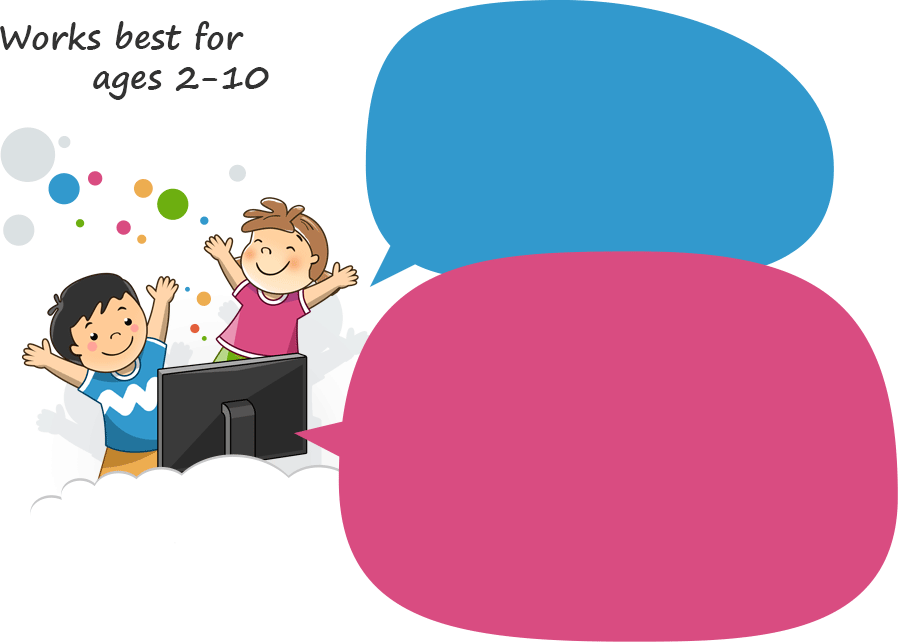
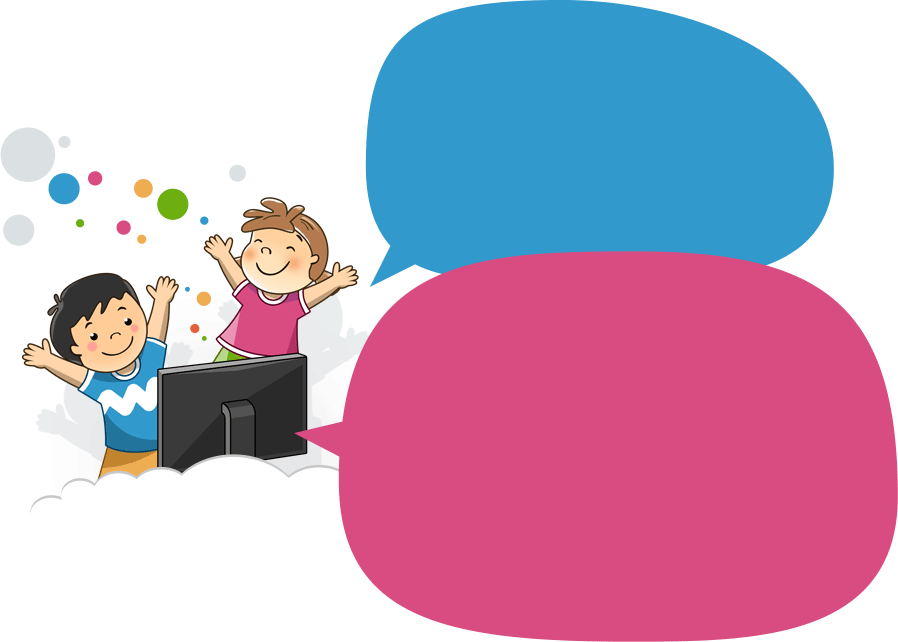
carousel added

Changed region(s): [[0.0, 0.0312, 0.3118, 0.1558]]

diff --git a/desktop.bundles/landing/landing.bemjson.js b/desktop.bundles/landing/landing.bemjson.js
@@ -42,6 +42,20 @@
                                                     url: '../../i/landing-image.png'
                                                 },
                                                 {
+                                                    elem: 'caption',
+                                                    mix: [{ block: 'block' }],
+                                                    content: [
+                                                        {
+                                                            elem: 'cation-line',
+                                                            mix: [{ block: 'block', elem: 'h1' }],
+                                                            content: [
+                                                                'Works best for<br>',
+                                                                '&nbsp;&nbsp;&nbsp;&nbsp;&nbsp;&nbsp;&nbsp;&nbsp;&nbsp;&nbsp;&nbsp;ages 2-10'
+                                                            ]
+                                                        }
+                                                    ]
+                                                },
+                                                {
                                                     elem: 'text',
                                                     content: [
                                                         {
@@ -122,7 +136,15 @@
                                                             ]
                                                         }
                                                     ]
-                                                }
+                                                },
+                                                {
+                                                    block: 'block',
+                                                    mix: { block: 'landing-image', elem: 'screenshots-title' },
+                                                    content: {
+                                                        elem: 'h1',
+                                                        content: 'Screenshots'
+                                                    }
+                                                },
                                             ]
                                         }
                                     ]
@@ -149,13 +171,6 @@
                     ]
                 },
                 {
-                    block: 'block',
-                    content: {
-                        elem: 'h1',
-                        content: 'Screenshots'
-                    }
-                },
-                {
                     block: 'landing-screens',
                     mix: [{ block: 'clearfix' }],
                     content: [1,2,3,4,5,6].map(function(i) {
@@ -164,6 +179,90 @@
                             elemMods: { pos: i }
                         };
                     })
+                }
+            ]
+        },
+        {
+            block: 'popupa',
+            content: [
+                {
+                    elem: 'paranja'
+                },
+                {
+                    elem: 'inner',
+                    content: [
+                        {
+                            elem: 'close'
+                        },
+                        {
+                            elem: 'content',
+                            content: {
+                                block: 'carousel',
+                                mods: { animate: 'yes', counter: 'yes' },
+                                content: [
+                                    {
+                                        elem: 'inner',
+                                        content: [
+                                            {
+                                                elem: 'item',
+                                                elemMods: { state: 'active' },
+                                                content: {
+                                                    elem: 'img',
+                                                    url: '/i/landing-screens__image_pos_1.png'
+                                                }
+                                            },
+                                            {
+                                                elem: 'item',
+                                                content: {
+                                                    elem: 'img',
+                                                    url: '/i/landing-screens__image_pos_2.png'
+                                                }
+                                            },
+                                            {
+                                                elem: 'item',
+                                                content: {
+                                                    elem: 'img',
+                                                    url: '/i/landing-screens__image_pos_3.png'
+                                                }
+                                            },
+                                            {
+                                                elem: 'item',
+                                                content: {
+                                                    elem: 'img',
+                                                    url: '/i/landing-screens__image_pos_4.png'
+                                                }
+                                            },
+                                            {
+                                                elem: 'item',
+                                                content: {
+                                                    elem: 'img',
+                                                    url: '/i/landing-screens__image_pos_5.png'
+                                                }
+                                            },
+                                            {
+                                                elem: 'item',
+                                                content: {
+                                                    elem: 'img',
+                                                    url: '/i/landing-screens__image_pos_6.png'
+                                                }
+                                            }
+                                        ]
+                                    },
+                                    {
+                                        elem: 'control',
+                                        elemMods: { type: 'left', theme: 'md8' }
+                                    },
+                                    {
+                                        elem: 'control',
+                                        elemMods: { type: 'right', theme: 'md8' }
+                                    },
+                                    {
+                                        elem: 'counter'
+                                    }
+                                ]
+                            }
+                        }
+                    ]
                 }
             ]
         },

diff --git a/desktop.blocks/landing-screens/landing-screens.js b/desktop.blocks/landing-screens/landing-screens.js
@@ -1,0 +1,36 @@
+BEM.DOM.decl('landing-screens',
+{
+    onSetMod: {
+        js: {
+            inited: function() {
+                var bPage = this.findBlockOutside('b-page'),
+                    popupa = bPage.findBlockInside('popupa'),
+                    carousel = popupa.findBlockInside('carousel');
+
+                carousel.pause();
+
+                this.bindTo('item', 'click', function(e) {
+                    var item = e.data.domElem,
+                        pos = item.index(),
+                        winHeight = BEM.DOM.win.height();
+
+                    // this.trigger('show', { pos: pos });
+
+                    carousel.elem('img').height(winHeight / 1.2);
+
+                    carousel.to(pos);
+                    popupa.show();
+
+                    var popupaInner = popupa.elem('inner'),
+                        popupaInnerHeight = popupaInner.height(),
+                        popupaInnerWidth = popupaInner.width();
+
+                    popupa.elem('inner').css({ 'margin-top': -1 * popupaInnerHeight / 2 + 'px', 'margin-left': -1 * popupaInnerWidth / 2 + 'px' });
+
+                    this._cycling || carousel.cycle();
+                    this._cycling = true;
+                });
+            }
+        }
+    }
+});

diff --git a/.bem/make.js b/.bem/make.js
@@ -30,6 +30,11 @@ MAKE.decl('Arch', {
                 url: 'git://github.com/bem/bem-controls.git',
                 // treeish: '5b16837bd8908d8f98b9386370183d01d99c8718'
                 treeish: 'dev'
+            },
+            'bl-carousel': {
+                type: 'git',
+                url: 'git://github.com/tadatuta/bl-carousel.git',
+                branch: 'master'
             }
         };
 

diff --git a/desktop.blocks/landing-image/landing-image.css b/desktop.blocks/landing-image/landing-image.css
@@ -14,6 +14,14 @@
     width: 100%;
 }
 
+.landing-image__caption
+{
+    position: absolute;
+    top: 22px;
+
+    color: #333;
+}
+
 .landing-image__text
 {
     position: absolute;
@@ -90,4 +98,10 @@
     background: url(../../../i/star.png) no-repeat 0 3px;
 
     list-style: none;
+}
+
+.landing-image__screenshots-title
+{
+    position: absolute;
+    bottom: -76px;
 }

diff --git a/desktop.blocks/carousel/__control/carousel__control.css b/desktop.blocks/carousel/__control/carousel__control.css
@@ -1,0 +1,21 @@
+.carousel__control_theme_md8
+{
+    top: auto;
+    left: 50%;
+    bottom: -7px;
+
+    width: 28px;
+    height: 28px;
+    margin-left: -76px;
+
+    background: url(/i/carousel__control_theme_md8.png) no-repeat;
+
+    cursor: pointer;
+}
+
+.carousel__control_type_right
+{
+    margin-left: 50px;
+
+    background-position: -28px 0;
+}

diff --git a/desktop.bundles/.bem/level.js b/desktop.bundles/.bem/level.js
@@ -10,6 +10,7 @@ exports.getConfig = function() {
             '../../bem-bl/blocks-desktop',
             '../../bem-controls/common.blocks',
             '../../bem-controls/desktop.blocks',
+            '../../bl-carousel/desktop.blocks',
             '../../common.blocks',
             '../../desktop.blocks'
         ])

diff --git a/desktop.blocks/carousel/carousel.css b/desktop.blocks/carousel/carousel.css
@@ -1,0 +1,11 @@
+.carousel__img
+{
+    max-height: 770px;
+}
+
+.carousel__counter
+{
+    margin-top: 20px;
+
+    text-align: center;
+}

diff --git a/desktop.blocks/landing-screens/landing-screens.css b/desktop.blocks/landing-screens/landing-screens.css
@@ -1,7 +1,7 @@
 .landing-screens
 {
     width: 834px;
-    margin: auto;
+    margin: 68px auto 0;
 }
 
 .landing-screens__item

diff --git a/desktop.blocks/popupa/__content/popupa__content.css b/desktop.blocks/popupa/__content/popupa__content.css
@@ -1,0 +1,6 @@
+.popupa__content
+{
+    padding: 22px 20px 1px;
+
+    background: #fff;
+}
